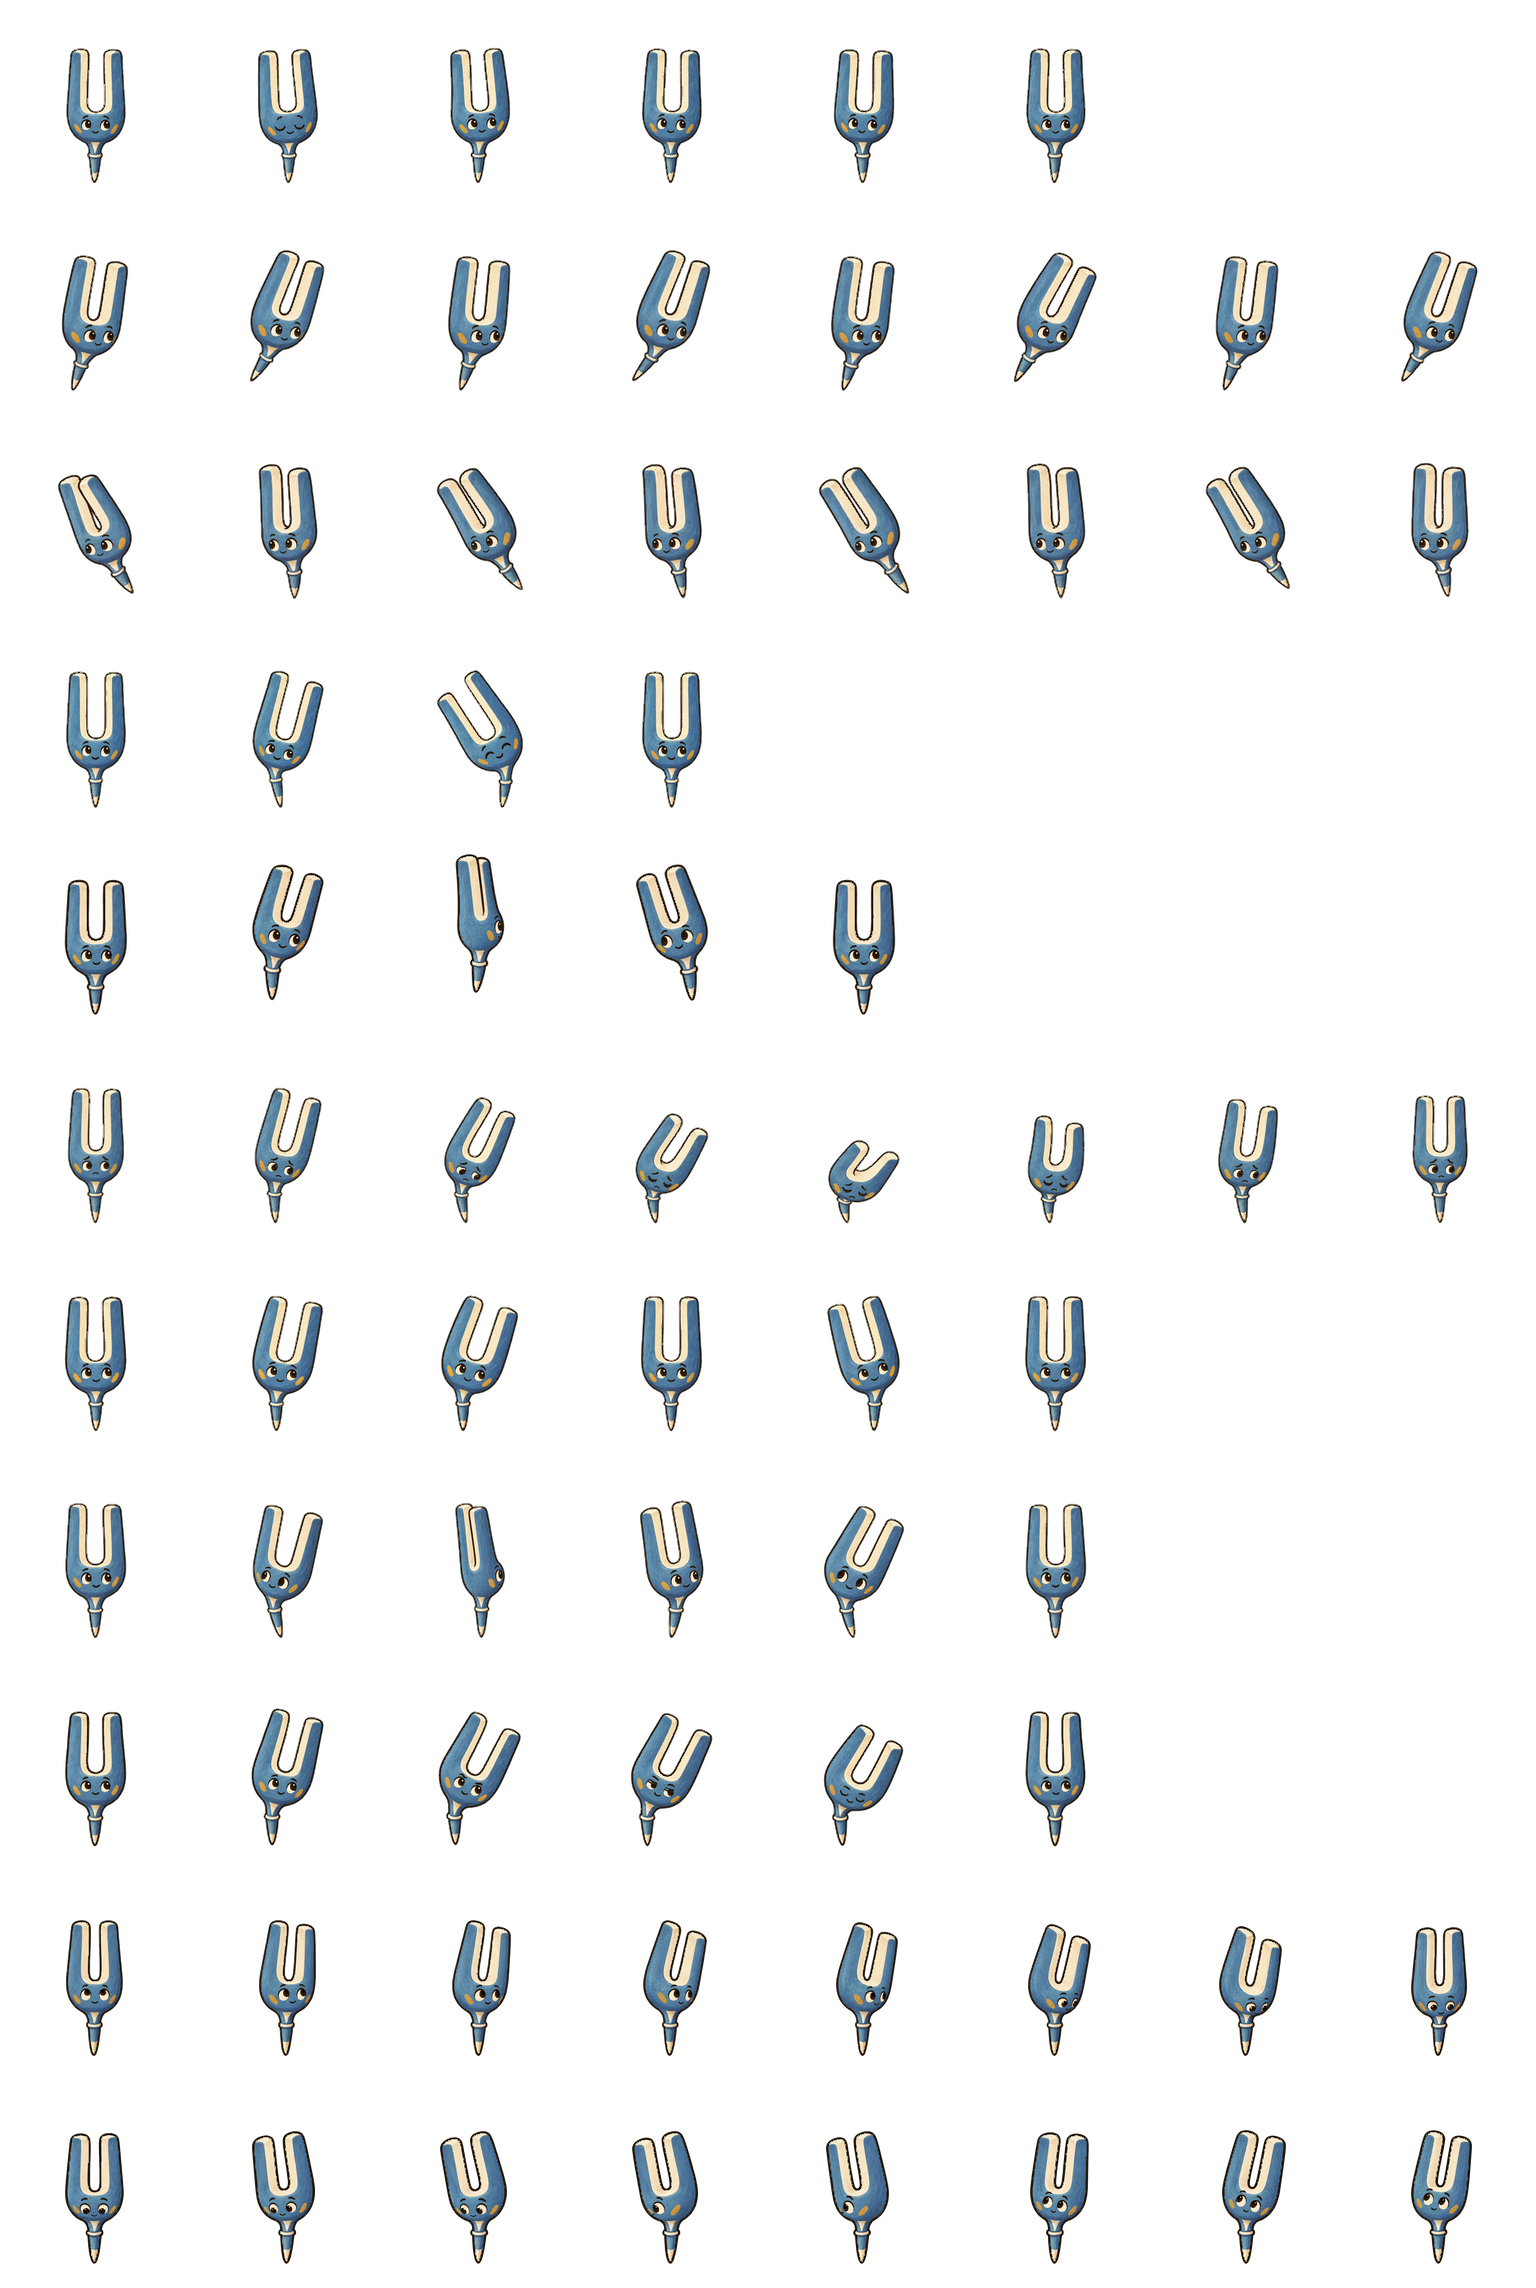
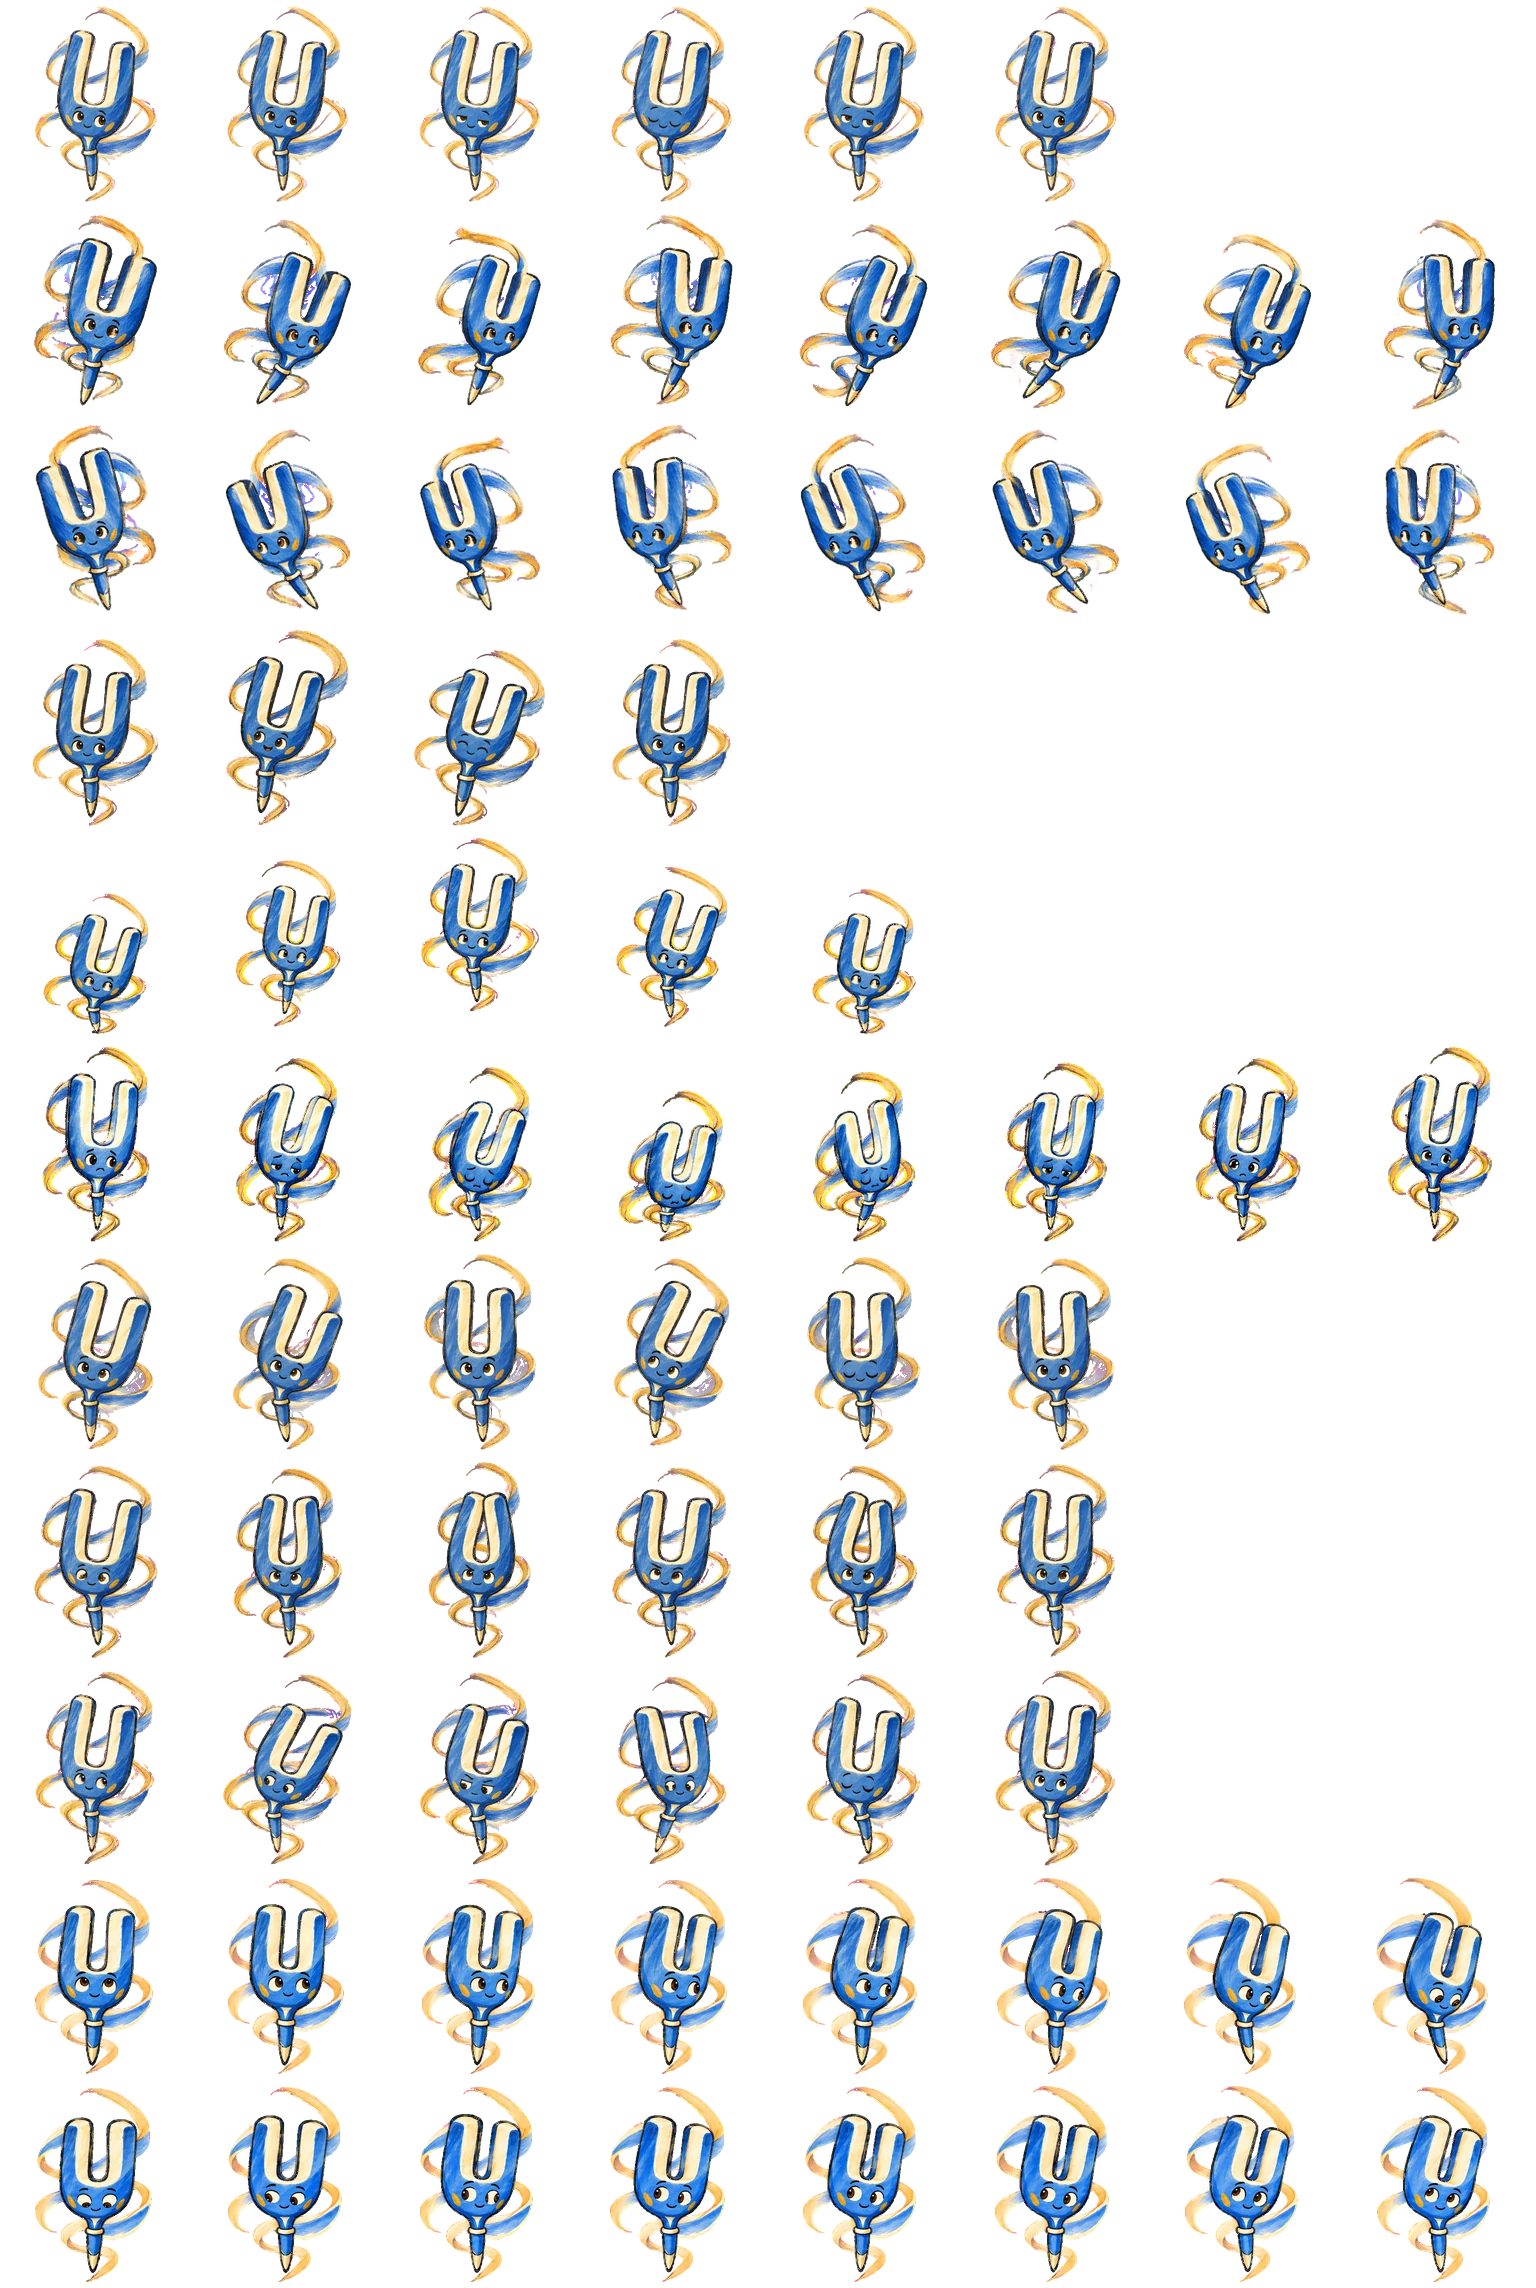
Pets: George redrawn [skip ci]
George followed as a Ballets Russes costume sketch in gouache. Paul signed off the sheet ("sign off"). Lossy WebP q88, 810,354 bytes, alpha bit-identical (mean error 7.4/255); the 25 sheets total 21,776,814 bytes. pet-metrics.json and the making-of golden regenerated.

diff --git a/docs/marginarium-pets.md b/docs/marginarium-pets.md
@@ -211,6 +211,7 @@ Lossy WebP at quality 88 (alpha bit-identical; checked at 1x and 5x on light and
[4 lines of base64/hex data omitted]
 
-The Baba Yaga followed as a Russian lubok woodblock print. The twenty-eight sheets total
-**21,809,830 bytes (20.80 MiB)** of the 24 MiB budget.
+The Baba Yaga followed as a Russian lubok woodblock print. George followed as a Ballets Russes costume sketch in gouache. The twenty-eight sheets total
+**21,776,814 bytes (20.77 MiB)** of the 24 MiB budget.
